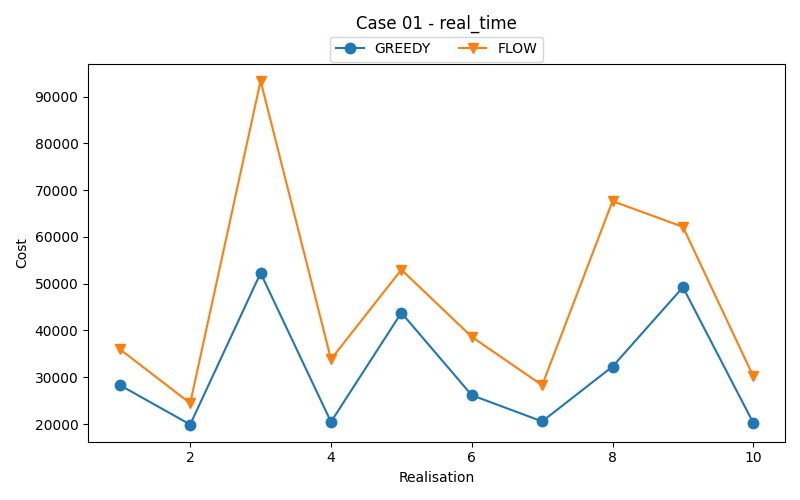
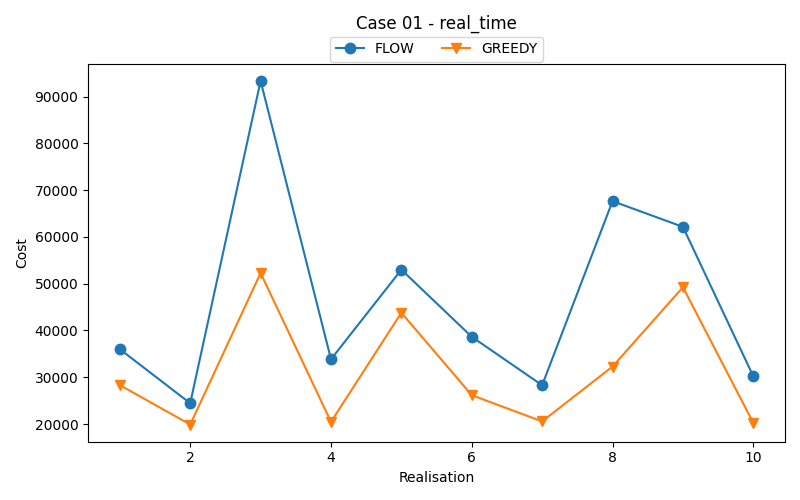
Fix up legend ordering and coloring

diff --git a/scripts/plot.py b/scripts/plot.py
@@ -36,6 +36,30 @@ def read_costs(filepath):
 
 
 if __name__ == '__main__':
+    # 1. Collect all heuristics globally
+    all_heuristics = set()
+    heuristic_file_map = {}
+    for subfolder in SUBFOLDERS:
+        dir_path = os.path.join(RESULTS_BASE_DIR, subfolder)
+        if not os.path.isdir(dir_path):
+            continue
+        files = [f for f in os.listdir(dir_path) if f.endswith('_result.txt') and not f.endswith('_pretty.txt')]
+        for f in files:
+            heuristic_match = HEURISTIC_PATTERN.search(f)
+            if not heuristic_match:
+                continue
+            heuristic = heuristic_match.group(1)
+            if heuristic.startswith('time_'):
+                heuristic = heuristic[len('time_'):]
+            if heuristic == 'LOWER_BOUND_UNCAPACITATED_FLOW':
+                heuristic = 'LOWER_BOUND'
+            all_heuristics.add(heuristic)
+            heuristic_file_map.setdefault(subfolder, {}).setdefault(heuristic, []).append(f)
+
+    # Sort heuristics for consistent order
+    all_heuristics = sorted(all_heuristics)
+    heuristic_to_idx = {h: i for i, h in enumerate(all_heuristics)}
+
     for subfolder in SUBFOLDERS:
         dir_path = os.path.join(RESULTS_BASE_DIR, subfolder)
         if not os.path.isdir(dir_path):
@@ -52,23 +76,27 @@ if __name__ == '__main__':
             cases[case].append(f)
         for case, case_files in cases.items():
             plt.figure(figsize=(8, 5))
-            for idx, filename in enumerate(case_files):
+            plotted_heuristics = {}
+            for filename in case_files:
                 heuristic_match = HEURISTIC_PATTERN.search(filename)
                 if not heuristic_match:
                     continue
                 heuristic = heuristic_match.group(1)
-                # Remove 'time_' prefix if present
                 if heuristic.startswith('time_'):
                     heuristic = heuristic[len('time_'):]
-                # Rename LOWER_BOUND_UNCAPACITATED_FLOW to LOWER_BOUND
                 if heuristic == 'LOWER_BOUND_UNCAPACITATED_FLOW':
                     heuristic = 'LOWER_BOUND'
+                idx = heuristic_to_idx[heuristic]
                 realisations, costs = read_costs(os.path.join(dir_path, filename))
-                plt.plot(realisations, costs, label=heuristic, marker=LINE_MARKER[idx % len(LINE_MARKER)], markersize=7.5)
+                line, = plt.plot(realisations, costs, label=heuristic, marker=LINE_MARKER[idx % len(LINE_MARKER)], markersize=7.5, color=f'C{idx % 10}')
+                plotted_heuristics[heuristic] = line
             plt.xlabel('Realisation')
             plt.ylabel('Cost')
             plt.title(f'Case {case} - {subfolder}', pad=25)
-            plt.legend(ncol=NUMBER_OF_COLUMNS_IN_LEGEND, loc='upper center', bbox_to_anchor=(0.5, Y_OFFSET_LEGEND))
+            # Consistent legend order
+            handles = [plotted_heuristics[h] for h in all_heuristics if h in plotted_heuristics]
+            labels = [h for h in all_heuristics if h in plotted_heuristics]
+            plt.legend(handles, labels, ncol=NUMBER_OF_COLUMNS_IN_LEGEND, loc='upper center', bbox_to_anchor=(0.5, Y_OFFSET_LEGEND))
             plt.tight_layout()
             out_name = f"plot_case_{case}_{subfolder}.png"
             os.makedirs(os.path.join(RESULTS_BASE_DIR, "plots"), exist_ok=True)
